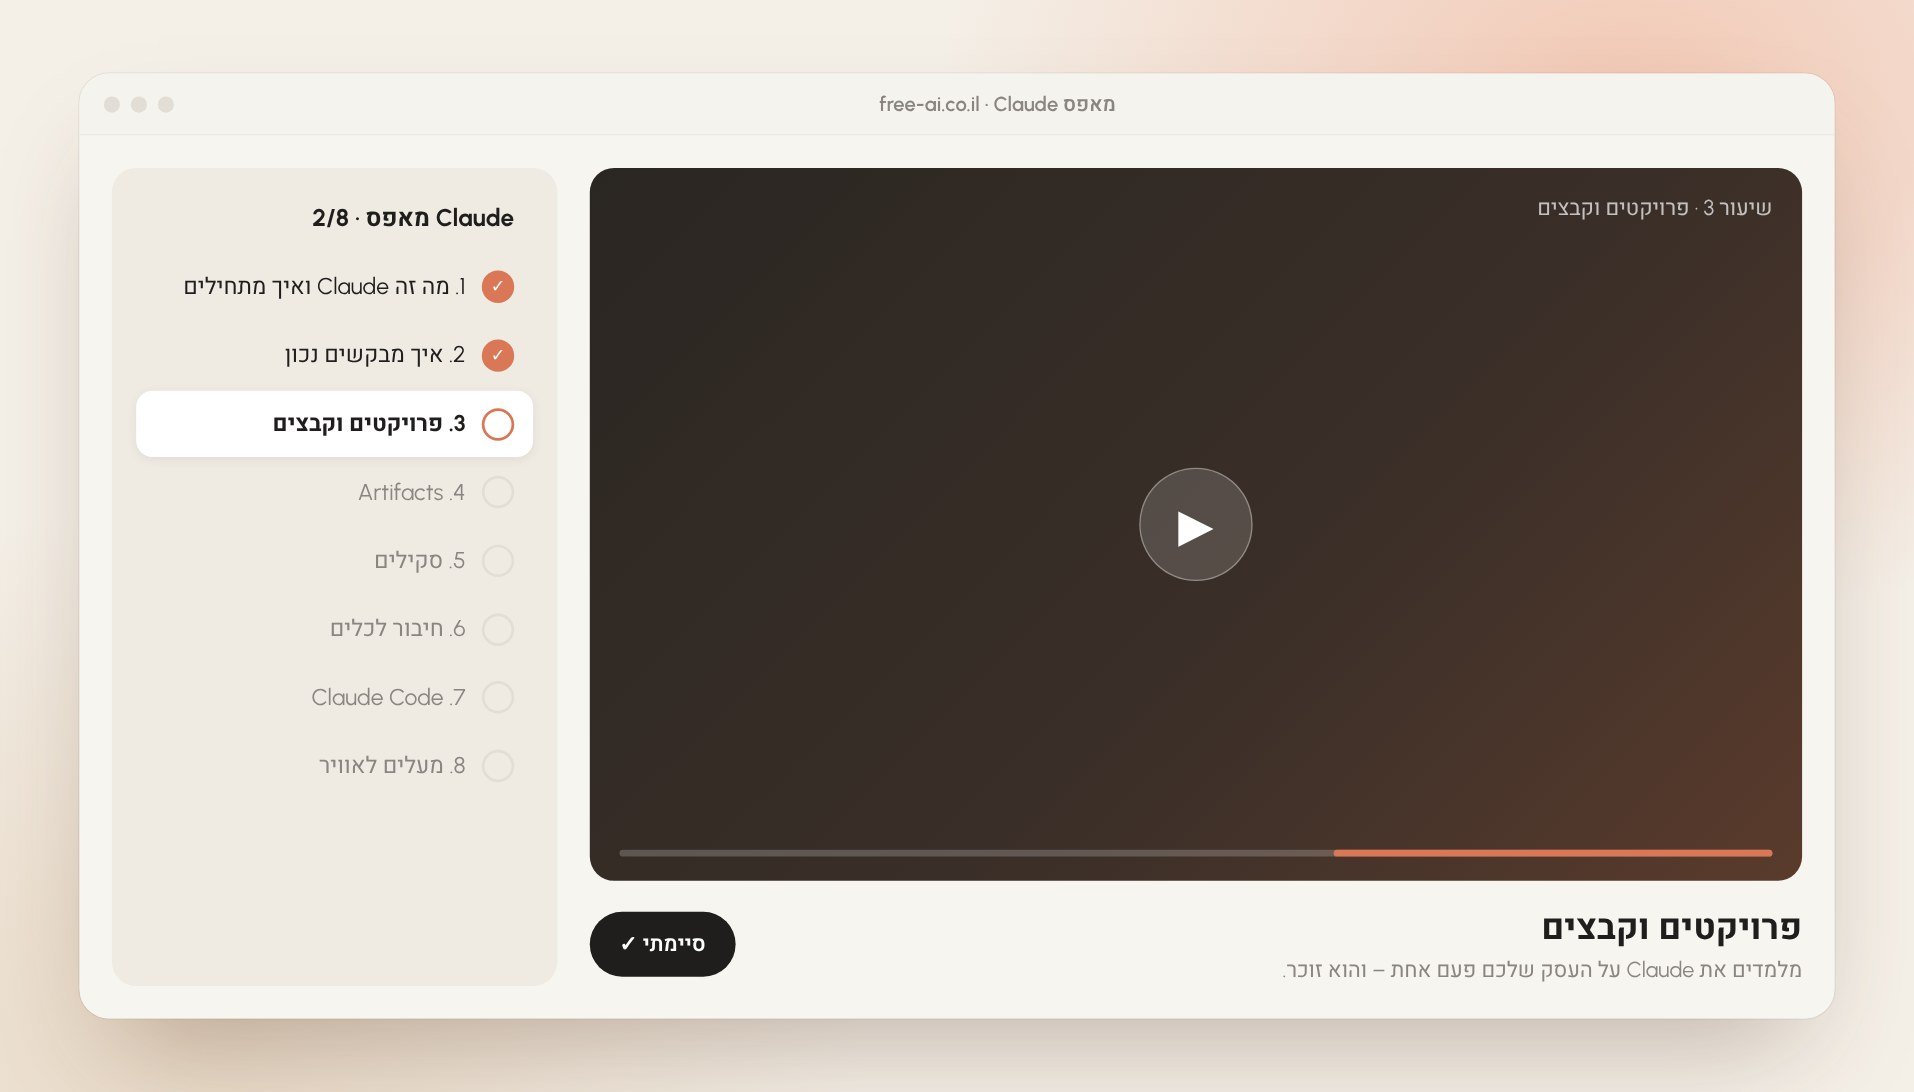
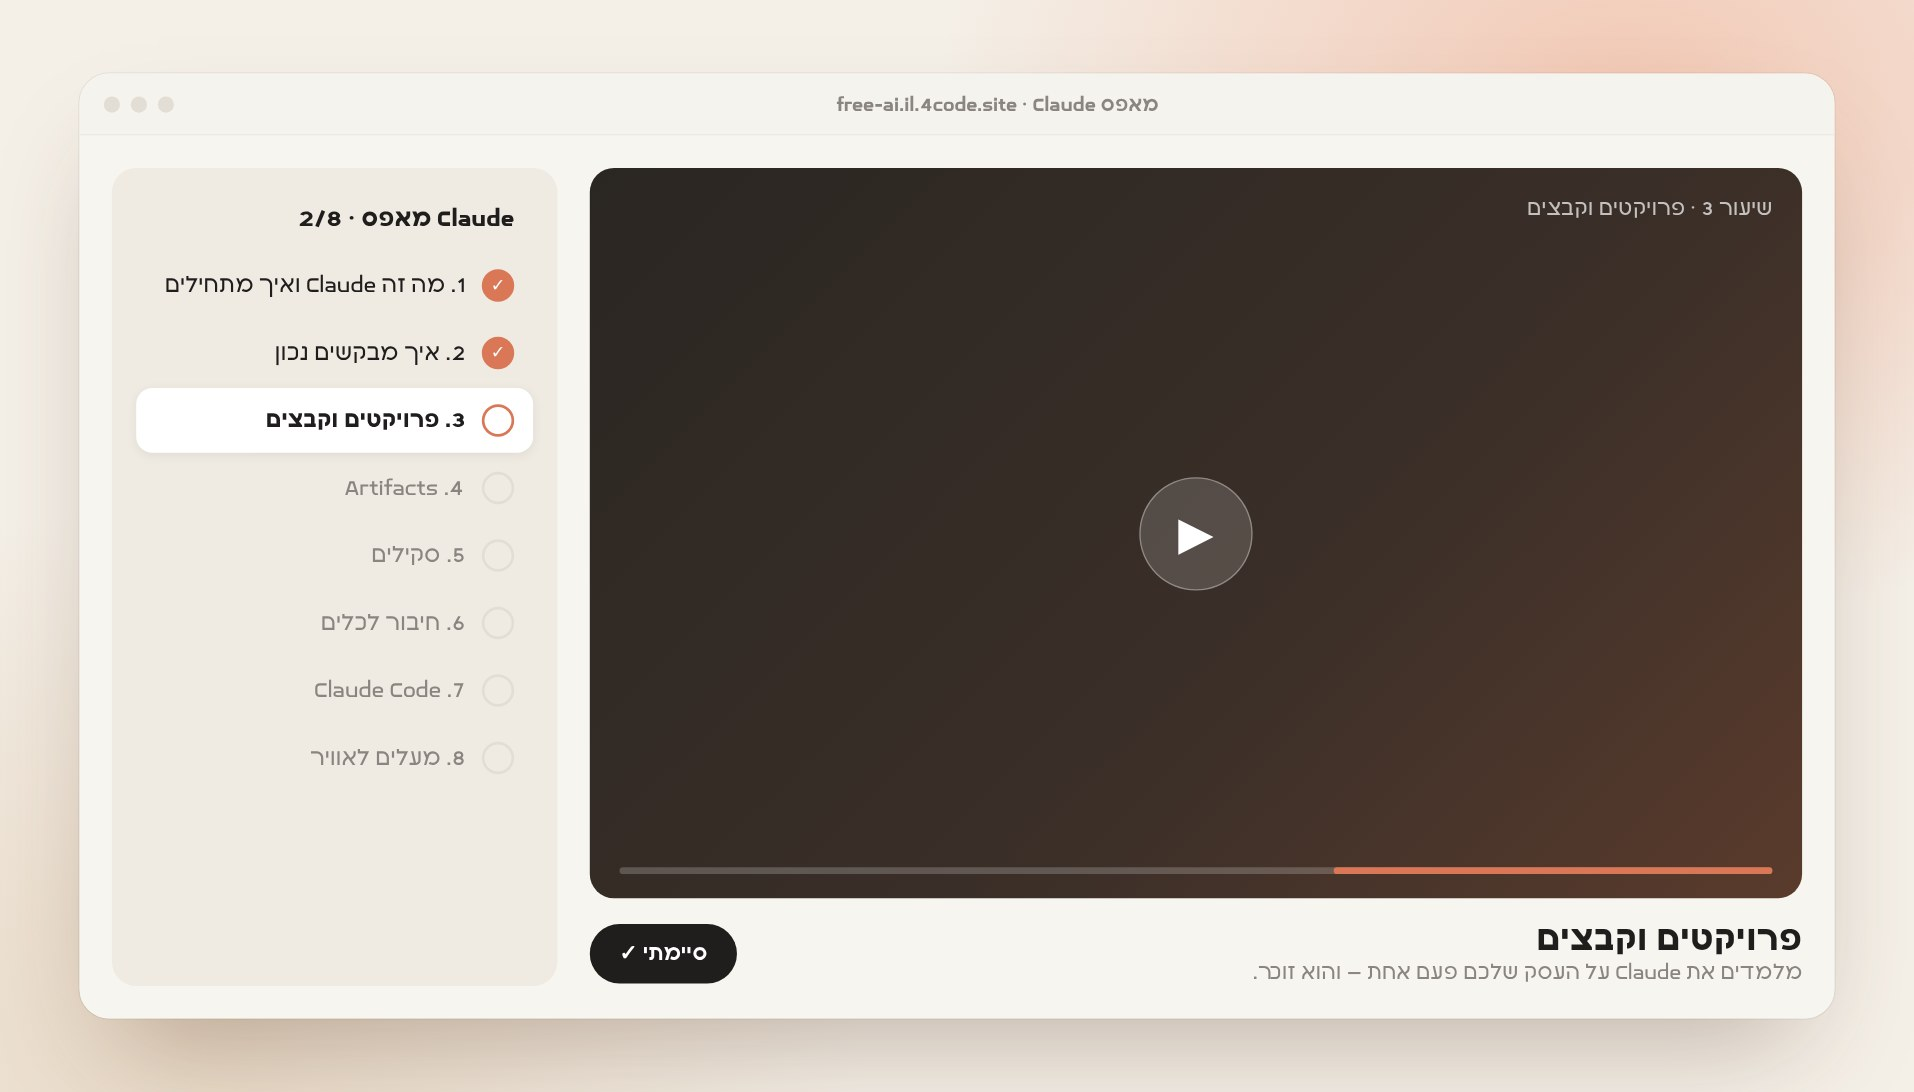
המדריך בדף הבית ובפוטר, והכתובת free-ai.il.4code.site במקום הדומיין הישן
Claude-Session: https://claude.ai/code/session_01WAZ9J6TTDcFMvsvq4e1HkY

diff --git a/site/index.html b/site/index.html
@@ -133,6 +133,9 @@
                         <a href="work.html" class="tf-btn-2">
                             סקילים ל-Claude
                         </a>
+                        <a href="guide-1.html" class="tf-btn-2">
+                            המדריך המלא
+                        </a>
                     </div>
                 </div>
             </div>
@@ -423,6 +426,25 @@
             <div class="light-box"></div>
             <img class="light-top" src="assets/images/item/light-top.png" alt="">
             <img class="light-bot" src="assets/images/item/light-bot.png" alt="">
+            <!-- section-guide -->
+            <div class="section-awards flat-spacing pb-0">
+                <div class="container">
+                    <div class="heading-section center mb-48">
+                        <div class="heading-sub fw-semibold style-1 mb-0 effectFade fadeUp">המדריך המלא ל-Claude Code</div>
+                    </div>
+                    <div class="d-grid gap-16">
+                        <a href="guide-1.html" class="awards-item effectFade fadeUp">
+                            <div class="image">
+                                <i class="icon icon-book-open-solid skill-icon"></i>
+                            </div>
+                            <div class="title text-body-1 text-white">פרק 1: לפני שמתחילים</div>
+                            <div class="text text-body-1 text-white">מא' עד ת', למי שלא מתכנת</div>
+                            <div class="year text-body-1 text-neutral-400">/ 13 פרקים</div>
+                        </a>
+                    </div>
+                </div>
+            </div>
+            <!-- /section-guide -->
             <!-- section-awards -->
             <div class="section-awards flat-spacing">
                 <div class="container">
@@ -583,6 +605,12 @@
                     <div class="tf-social-1 justify-content-center">
                         <a href="service.html" class="text-body-1 fw-semibold">
                             הקורס
+                            <div class="social-item">
+                                <i class="icon icon-arrow-top-right"></i>
+                            </div>
+                        </a>
+                        <a href="guide-1.html" class="text-body-1 fw-semibold">
+                            המדריך
                             <div class="social-item">
                                 <i class="icon icon-arrow-top-right"></i>
                             </div>

diff --git a/site/service-single.html b/site/service-single.html
@@ -132,7 +132,7 @@
                 <div class="row">
                     <div class="col-12">
                         <div class="top-image mb-40 effectFade fadeZoom">
-                            <img src="assets/images/section/service-single-1.jpg" alt="">
+                            <img src="assets/images/section/service-single-1.jpg?v=2" alt="">
                         </div>
                     </div>
                     <div class="col-12">
@@ -155,7 +155,7 @@
                 <div class="row mb-40">
                     <div class="col-md-8 md-mb-24">
                         <div class="image effectFade fadeUp">
-                            <img src="assets/images/section/service-single-2.jpg" alt="">
+                            <img src="assets/images/section/service-single-2.jpg?v=2" alt="">
                         </div>
                     </div>
                     <div class="col-md-4">
@@ -428,6 +428,12 @@
                     <div class="tf-social-1 justify-content-center">
                         <a href="service.html" class="text-body-1 fw-semibold">
                             הקורס
+                            <div class="social-item">
+                                <i class="icon icon-arrow-top-right"></i>
+                            </div>
+                        </a>
+                        <a href="guide-1.html" class="text-body-1 fw-semibold">
+                            המדריך
                             <div class="social-item">
                                 <i class="icon icon-arrow-top-right"></i>
                             </div>

diff --git a/tools/site_build/claude_images.js b/tools/site_build/claude_images.js
@@ -199,7 +199,7 @@ const skillsSettings = (big) => win(big ? 1200 : 1100, big ? 760 : 720, 'Claude 
 
 const P = {
   // עמוד הקורס – שיעור עם סרטון ורשימת שיעורים
-  'section/service-single-1': [1914, 1092, `<div style="transform:scale(1.35)">${win(1300, 700, 'free-ai.co.il · Claude מאפס', `
+  'section/service-single-1': [1914, 1092, `<div style="transform:scale(1.35)">${win(1300, 700, 'free-ai.il.4code.site · Claude מאפס', `
     <div style="display:flex;flex:1;gap:24px;padding:24px;background:#F7F5F0">
       <div style="flex:1;display:flex;flex-direction:column;gap:16px">
         ${video('שיעור 3 · פרויקטים וקבצים')}
@@ -213,7 +213,7 @@ const P = {
       </div>
     </div>`)}</div>`],
   // סיכום שיעור וקבצים להורדה
-  'section/service-single-2': [1284, 807, `<div style="transform:scale(1.25)">${win(900, 560, 'free-ai.co.il · שיעור 3', `
+  'section/service-single-2': [1284, 807, `<div style="transform:scale(1.25)">${win(900, 560, 'free-ai.il.4code.site · שיעור 3', `
     <div style="flex:1;background:#fff;padding:30px 36px;display:flex;gap:30px">
       <div style="flex:1;display:flex;flex-direction:column;gap:12px">
         <div style="font-size:24px;font-weight:700">סיכום השיעור</div>

diff --git a/site/guide-1.html b/site/guide-1.html
@@ -612,6 +612,12 @@
                                 <i class="icon icon-arrow-top-right"></i>
                             </div>
                         </a>
+                        <a href="guide-1.html" class="text-body-1 fw-semibold">
+                            המדריך
+                            <div class="social-item">
+                                <i class="icon icon-arrow-top-right"></i>
+                            </div>
+                        </a>
                         <a href="work.html" class="text-body-1 fw-semibold">
                             סקילים
                             <div class="social-item">

diff --git a/site/privacy.html b/site/privacy.html
@@ -185,6 +185,12 @@
                                 <i class="icon icon-arrow-top-right"></i>
                             </div>
                         </a>
+                        <a href="guide-1.html" class="text-body-1 fw-semibold">
+                            המדריך
+                            <div class="social-item">
+                                <i class="icon icon-arrow-top-right"></i>
+                            </div>
+                        </a>
                         <a href="work.html" class="text-body-1 fw-semibold">
                             סקילים
                             <div class="social-item">

diff --git a/site/service.html b/site/service.html
@@ -396,6 +396,12 @@
                                 <i class="icon icon-arrow-top-right"></i>
                             </div>
                         </a>
+                        <a href="guide-1.html" class="text-body-1 fw-semibold">
+                            המדריך
+                            <div class="social-item">
+                                <i class="icon icon-arrow-top-right"></i>
+                            </div>
+                        </a>
                         <a href="work.html" class="text-body-1 fw-semibold">
                             סקילים
                             <div class="social-item">

diff --git a/site/terms.html b/site/terms.html
@@ -170,6 +170,12 @@
                                 <i class="icon icon-arrow-top-right"></i>
                             </div>
                         </a>
+                        <a href="guide-1.html" class="text-body-1 fw-semibold">
+                            המדריך
+                            <div class="social-item">
+                                <i class="icon icon-arrow-top-right"></i>
+                            </div>
+                        </a>
                         <a href="work.html" class="text-body-1 fw-semibold">
                             סקילים
                             <div class="social-item">

diff --git a/site/work-single.html b/site/work-single.html
@@ -256,6 +256,12 @@
                                 <i class="icon icon-arrow-top-right"></i>
                             </div>
                         </a>
+                        <a href="guide-1.html" class="text-body-1 fw-semibold">
+                            המדריך
+                            <div class="social-item">
+                                <i class="icon icon-arrow-top-right"></i>
+                            </div>
+                        </a>
                         <a href="work.html" class="text-body-1 fw-semibold">
                             סקילים
                             <div class="social-item">

diff --git a/site/work.html b/site/work.html
@@ -407,6 +407,12 @@
                                 <i class="icon icon-arrow-top-right"></i>
                             </div>
                         </a>
+                        <a href="guide-1.html" class="text-body-1 fw-semibold">
+                            המדריך
+                            <div class="social-item">
+                                <i class="icon icon-arrow-top-right"></i>
+                            </div>
+                        </a>
                         <a href="work.html" class="text-body-1 fw-semibold">
                             סקילים
                             <div class="social-item">

diff --git a/tools/site_build/guide_links.py b/tools/site_build/guide_links.py
@@ -1,0 +1,95 @@
+"""מוסיף קישורים למדריך בכל עמודי האתר: תפריט עליון, תפריט מובייל, פוטר ודף הבית.
+
+בטוח להריץ שוב ושוב (לא מוסיף פעמיים). להריץ אחרי שבונים מחדש עמודים אחרים:
+cd tools/site_build && python3 guide_links.py
+"""
+import re
+from pathlib import Path
+
+SITE = Path(__file__).resolve().parents[2] / "site"
+GUIDE = "guide-1.html"
+
+NAV_ANCHOR = '''                        <li class="menu-item">
+                            <a href="work.html" class="item-link link1'''
+NAV_ITEM = f'''                        <li class="menu-item">
+                            <a href="{GUIDE}" class="item-link link1">המדריך</a>
+                        </li>
+'''
+MOBILE_ITEM = f'''                            <li>
+                                <div class="item">
+                                    <a href="{GUIDE}" class="mb-menu-link text-display-1">
+                                        <span class="text">המדריך</span>
+                                    </a>
+                                </div>
+                            </li>
+'''
+FOOTER_ANCHOR = '''                        <a href="work.html" class="text-body-1 fw-semibold">
+                            סקילים'''
+FOOTER_ITEM = f'''                        <a href="{GUIDE}" class="text-body-1 fw-semibold">
+                            המדריך
+                            <div class="social-item">
+                                <i class="icon icon-arrow-top-right"></i>
+                            </div>
+                        </a>
+'''
+HERO_ANCHOR = '''                        <a href="work.html" class="tf-btn-2">
+                            סקילים ל-Claude
+                        </a>'''
+HERO_BTN = f'''
+                        <a href="{GUIDE}" class="tf-btn-2">
+                            המדריך המלא
+                        </a>'''
+HOME_ANCHOR = "            <!-- section-awards -->"
+HOME_BLOCK = f'''            <!-- section-guide -->
+            <div class="section-awards flat-spacing pb-0">
+                <div class="container">
+                    <div class="heading-section center mb-48">
+                        <div class="heading-sub fw-semibold style-1 mb-0 effectFade fadeUp">המדריך המלא ל-Claude Code</div>
+                    </div>
+                    <div class="d-grid gap-16">
+                        <a href="{GUIDE}" class="awards-item effectFade fadeUp">
+                            <div class="image">
+                                <i class="icon icon-book-open-solid skill-icon"></i>
+                            </div>
+                            <div class="title text-body-1 text-white">פרק 1: לפני שמתחילים</div>
+                            <div class="text text-body-1 text-white">מא' עד ת', למי שלא מתכנת</div>
+                            <div class="year text-body-1 text-neutral-400">/ 13 פרקים</div>
+                        </a>
+                    </div>
+                </div>
+            </div>
+            <!-- /section-guide -->
+'''
+
+
+def patch(html, name):
+    # תפריט עליון
+    if f'<a href="{GUIDE}" class="item-link' not in html:
+        assert NAV_ANCHOR in html, name
+        html = html.replace(NAV_ANCHOR, NAV_ITEM + NAV_ANCHOR, 1)
+    # תפריט מובייל
+    if f'<a href="{GUIDE}" class="mb-menu-link' not in html:
+        m = re.search(r' *<li>\s*<div class="item">\s*<a href="work\.html" class="mb-menu-link text-display-1">', html)
+        assert m, name
+        html = html[:m.start()] + MOBILE_ITEM + html[m.start():]
+    # פוטר
+    if f'<a href="{GUIDE}" class="text-body-1 fw-semibold">' not in html:
+        assert FOOTER_ANCHOR in html, name
+        html = html.replace(FOOTER_ANCHOR, FOOTER_ITEM + FOOTER_ANCHOR, 1)
+    # דף הבית: כפתור בראש העמוד ובלוק המדריך
+    if name == "index.html":
+        if "המדריך המלא\n" not in html:
+            assert HERO_ANCHOR in html, name
+            html = html.replace(HERO_ANCHOR, HERO_ANCHOR + HERO_BTN, 1)
+        if "<!-- section-guide -->" not in html:
+            assert HOME_ANCHOR in html, name
+            html = html.replace(HOME_ANCHOR, HOME_BLOCK + HOME_ANCHOR, 1)
+    return html
+
+
+for f in sorted(SITE.glob("*.html")):
+    old = f.read_text()
+    new = patch(old, f.name)
+    if new != old:
+        f.write_text(new)
+        print("updated", f.name)

diff --git a/tools/site_build/common.py b/tools/site_build/common.py
@@ -108,6 +108,12 @@ FOOTER = '''<!-- footer -->
                                 <i class="icon icon-arrow-top-right"></i>
                             </div>
                         </a>
+                        <a href="guide-1.html" class="text-body-1 fw-semibold">
+                            המדריך
+                            <div class="social-item">
+                                <i class="icon icon-arrow-top-right"></i>
+                            </div>
+                        </a>
                         <a href="work.html" class="text-body-1 fw-semibold">
                             סקילים
                             <div class="social-item">

diff --git a/docs/SPEC.md b/docs/SPEC.md
@@ -75,7 +75,7 @@ Free AI נותן את כל הידע בחינם, ובכל שלב שבו צריך 
 - מסלולים נוספים.
 
 ## עיצוב ומיתוג
-- **דומיין:** free-ai.co.il
+- **דומיין:** free-ai.il.4code.site
 - **סגנון:** רקע לבן. כרטיסי זכוכית שקופה (גלאס) עם טשטוש, מעל כתמי צבע רכים ברקע.
 - **צבעים:** כתמי רקע בכחול, סגול וורוד. כותרות וטקסט בשחור בלבד, בלי צבעים בכותרות. כפתור ראשי שחור. בלי הכתום של Claude.
 - **ראש העמוד:** כותרת "הידע שעולה אלפים. פתוח לכולם." מימין, ומשמאל סרטון השיעור בתוך כרטיס זכוכית, עם כרטיס זכוכית של רשימת השיעורים מעליו.
